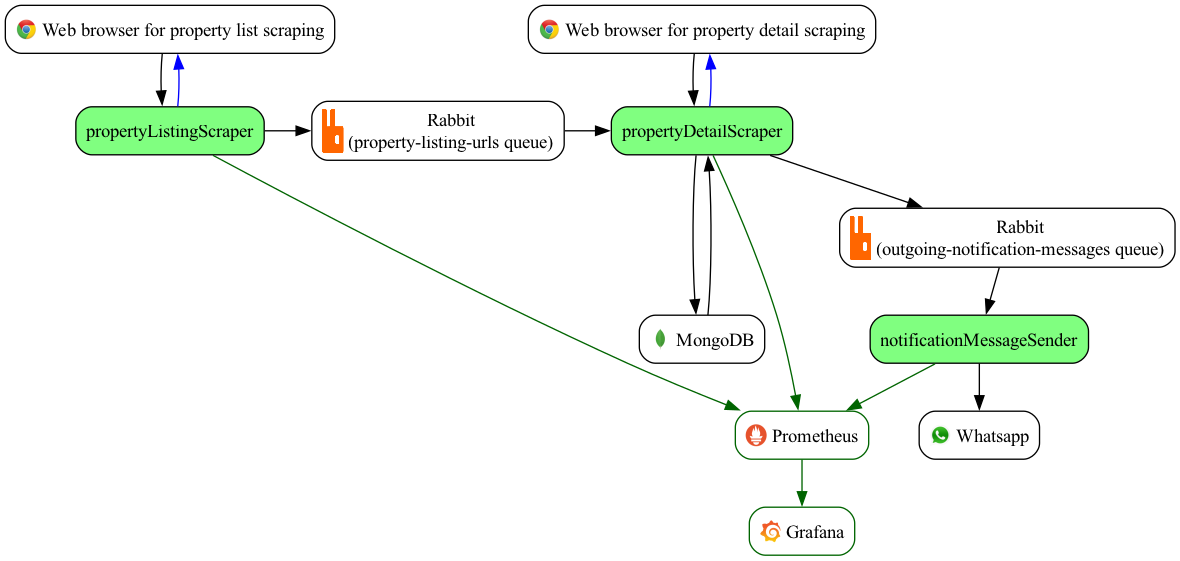
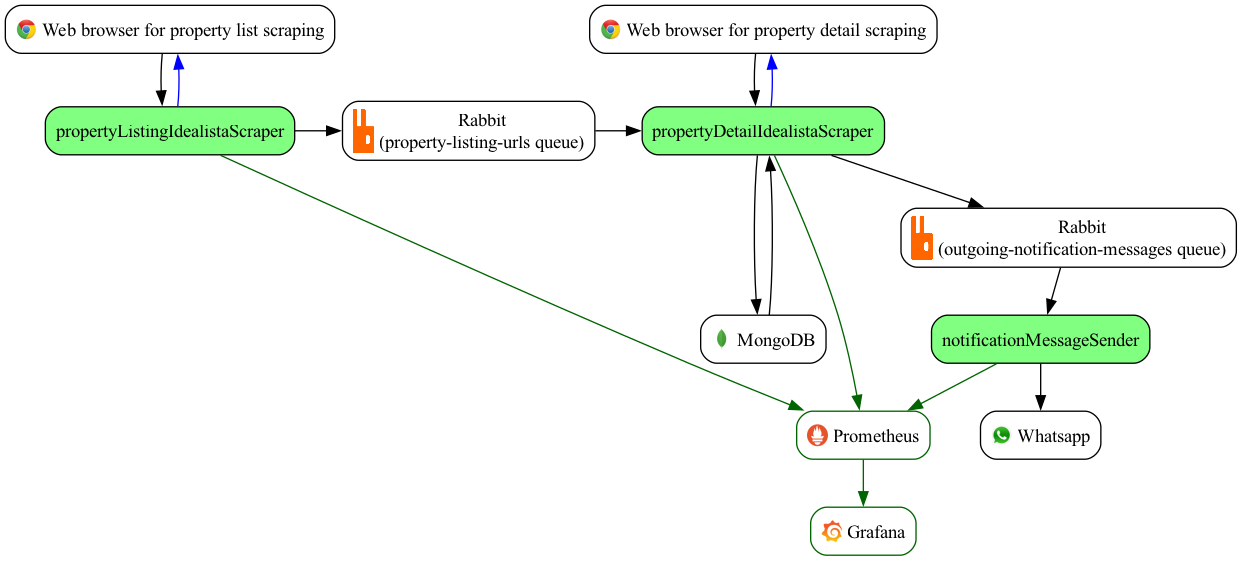
Documentation update

diff --git a/README.md b/README.md
@@ -27,8 +27,8 @@ This system comprises several micro services that interacts with each other as s
 
 The architecture componentes are:
 
-- [Page list scraper](propertyListingScraper/README.md): scraper that controls a Google Chrome web browser to get the list of properties given a set of filters. The resulting URLs for properties are written to RabbitMq.
-- [Page detail scraper](propertyDetailScraper/README.md): consumes property URLs from RabbitMq and downloads property details from Idealista source using a second and separate instance of Google Chrome. Given the property information, the information is stored in the mongodb database, and notifications are sent via whatsapp.
+- [Page list scraper](propertyListingIdealistaScraper/README.md): scraper that controls a Google Chrome web browser to get the list of properties given a set of filters. The resulting URLs for properties are written to RabbitMq.
+- [Page detail scraper](propertyDetailIdealistaScraper/README.md): consumes property URLs from RabbitMq and downloads property details from Idealista source using a second and separate instance of Google Chrome. Given the property information, the information is stored in the mongodb database, and notifications are sent via whatsapp.
 - [Notification message sender](notificationMessageSender/README.md): consumes messages from RabbitMq that are intended to be sent to a Whatsapp user or group.
 - Whatsapp notification sender: Service to send notification to whatsapp. Works reading messages written to RabbitMq.
 
